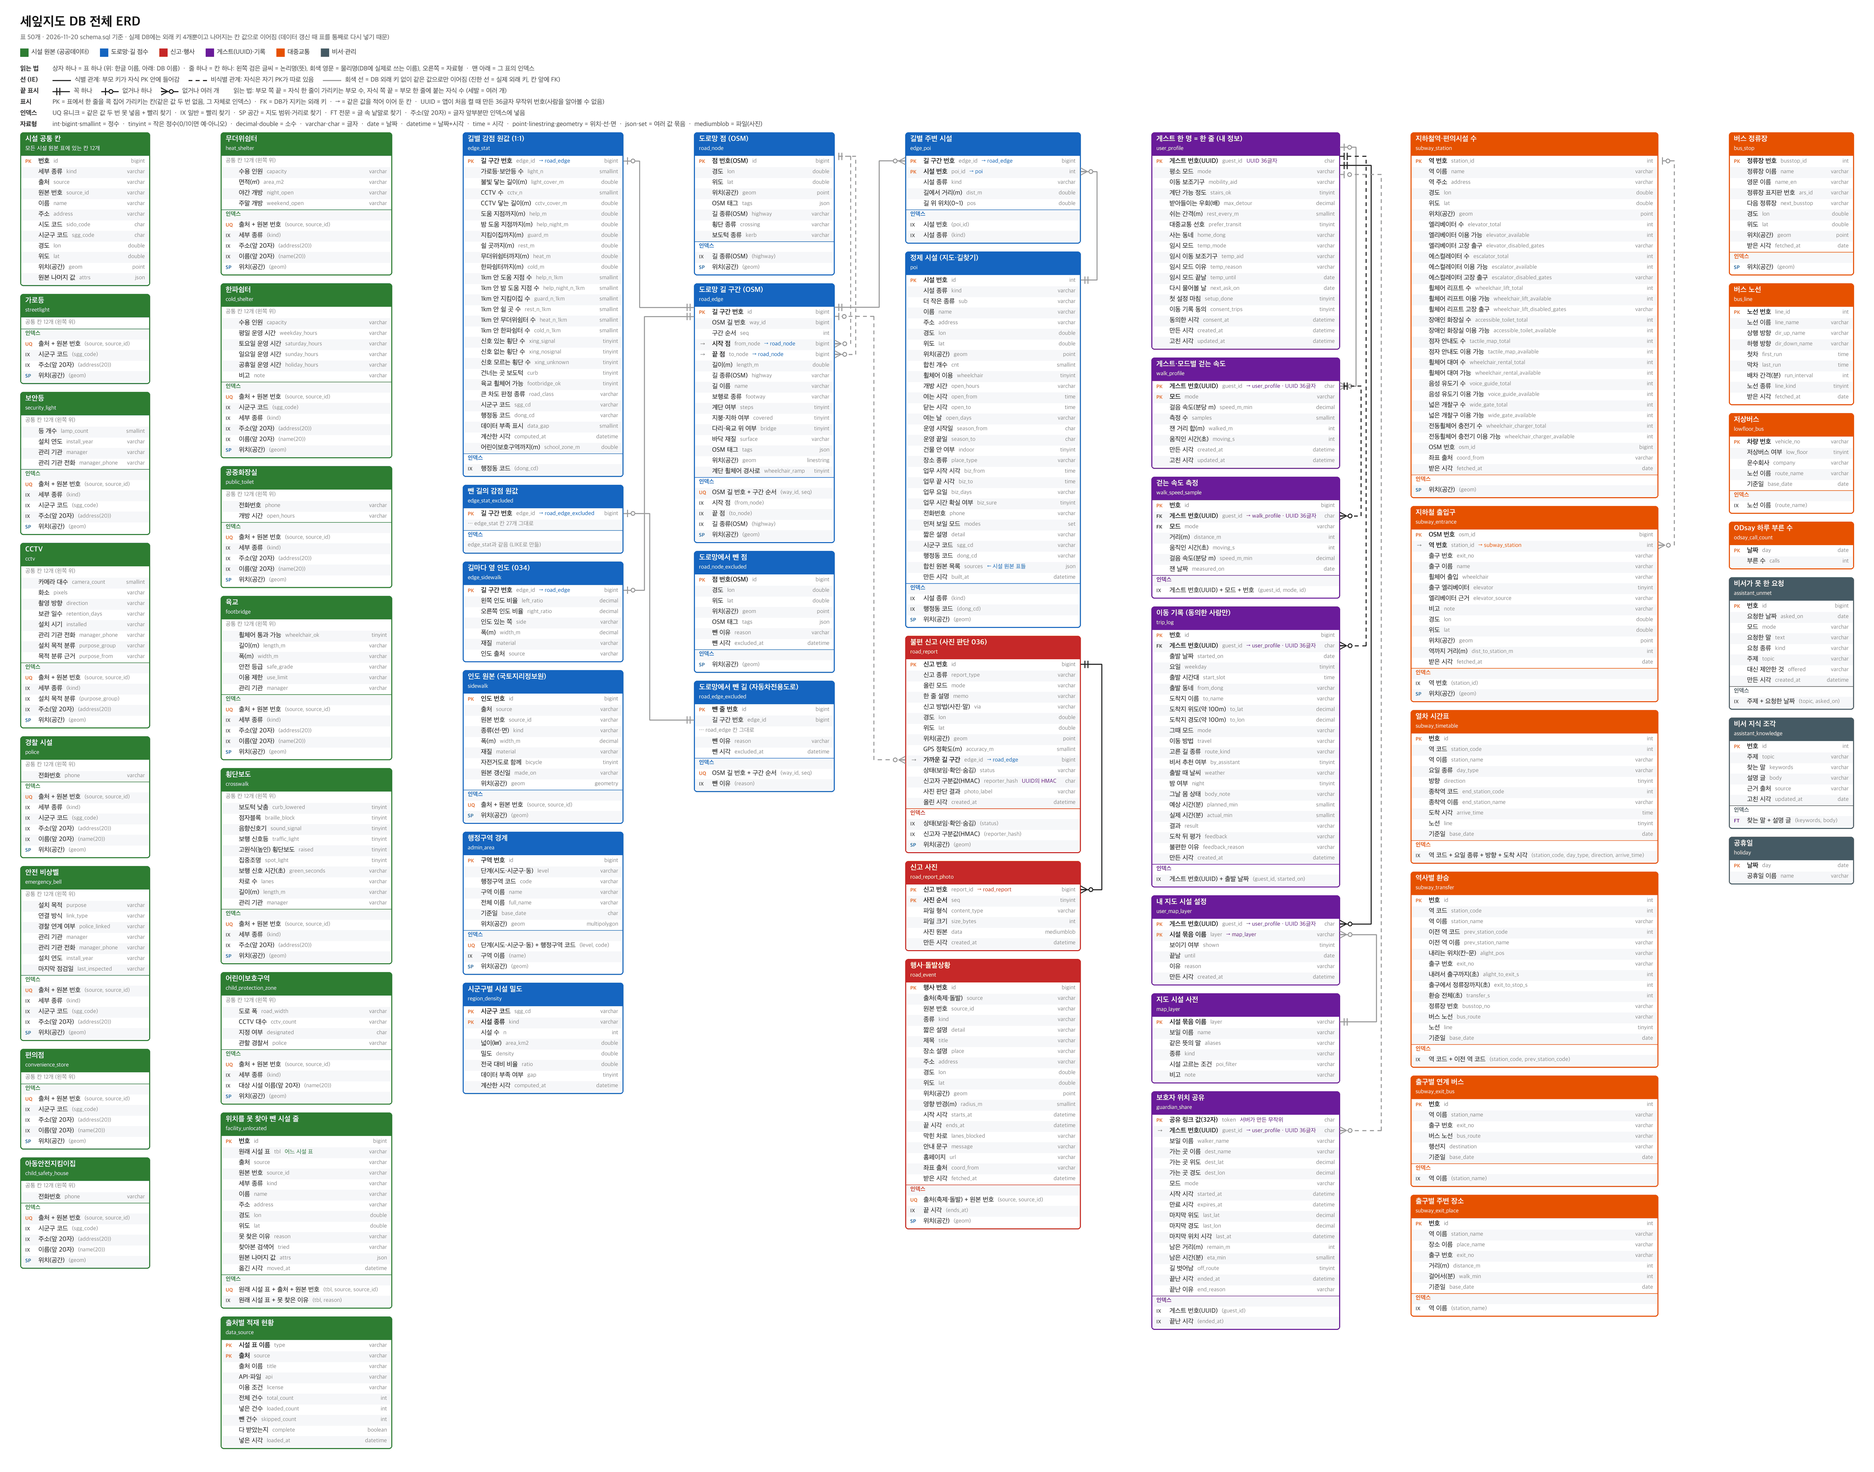
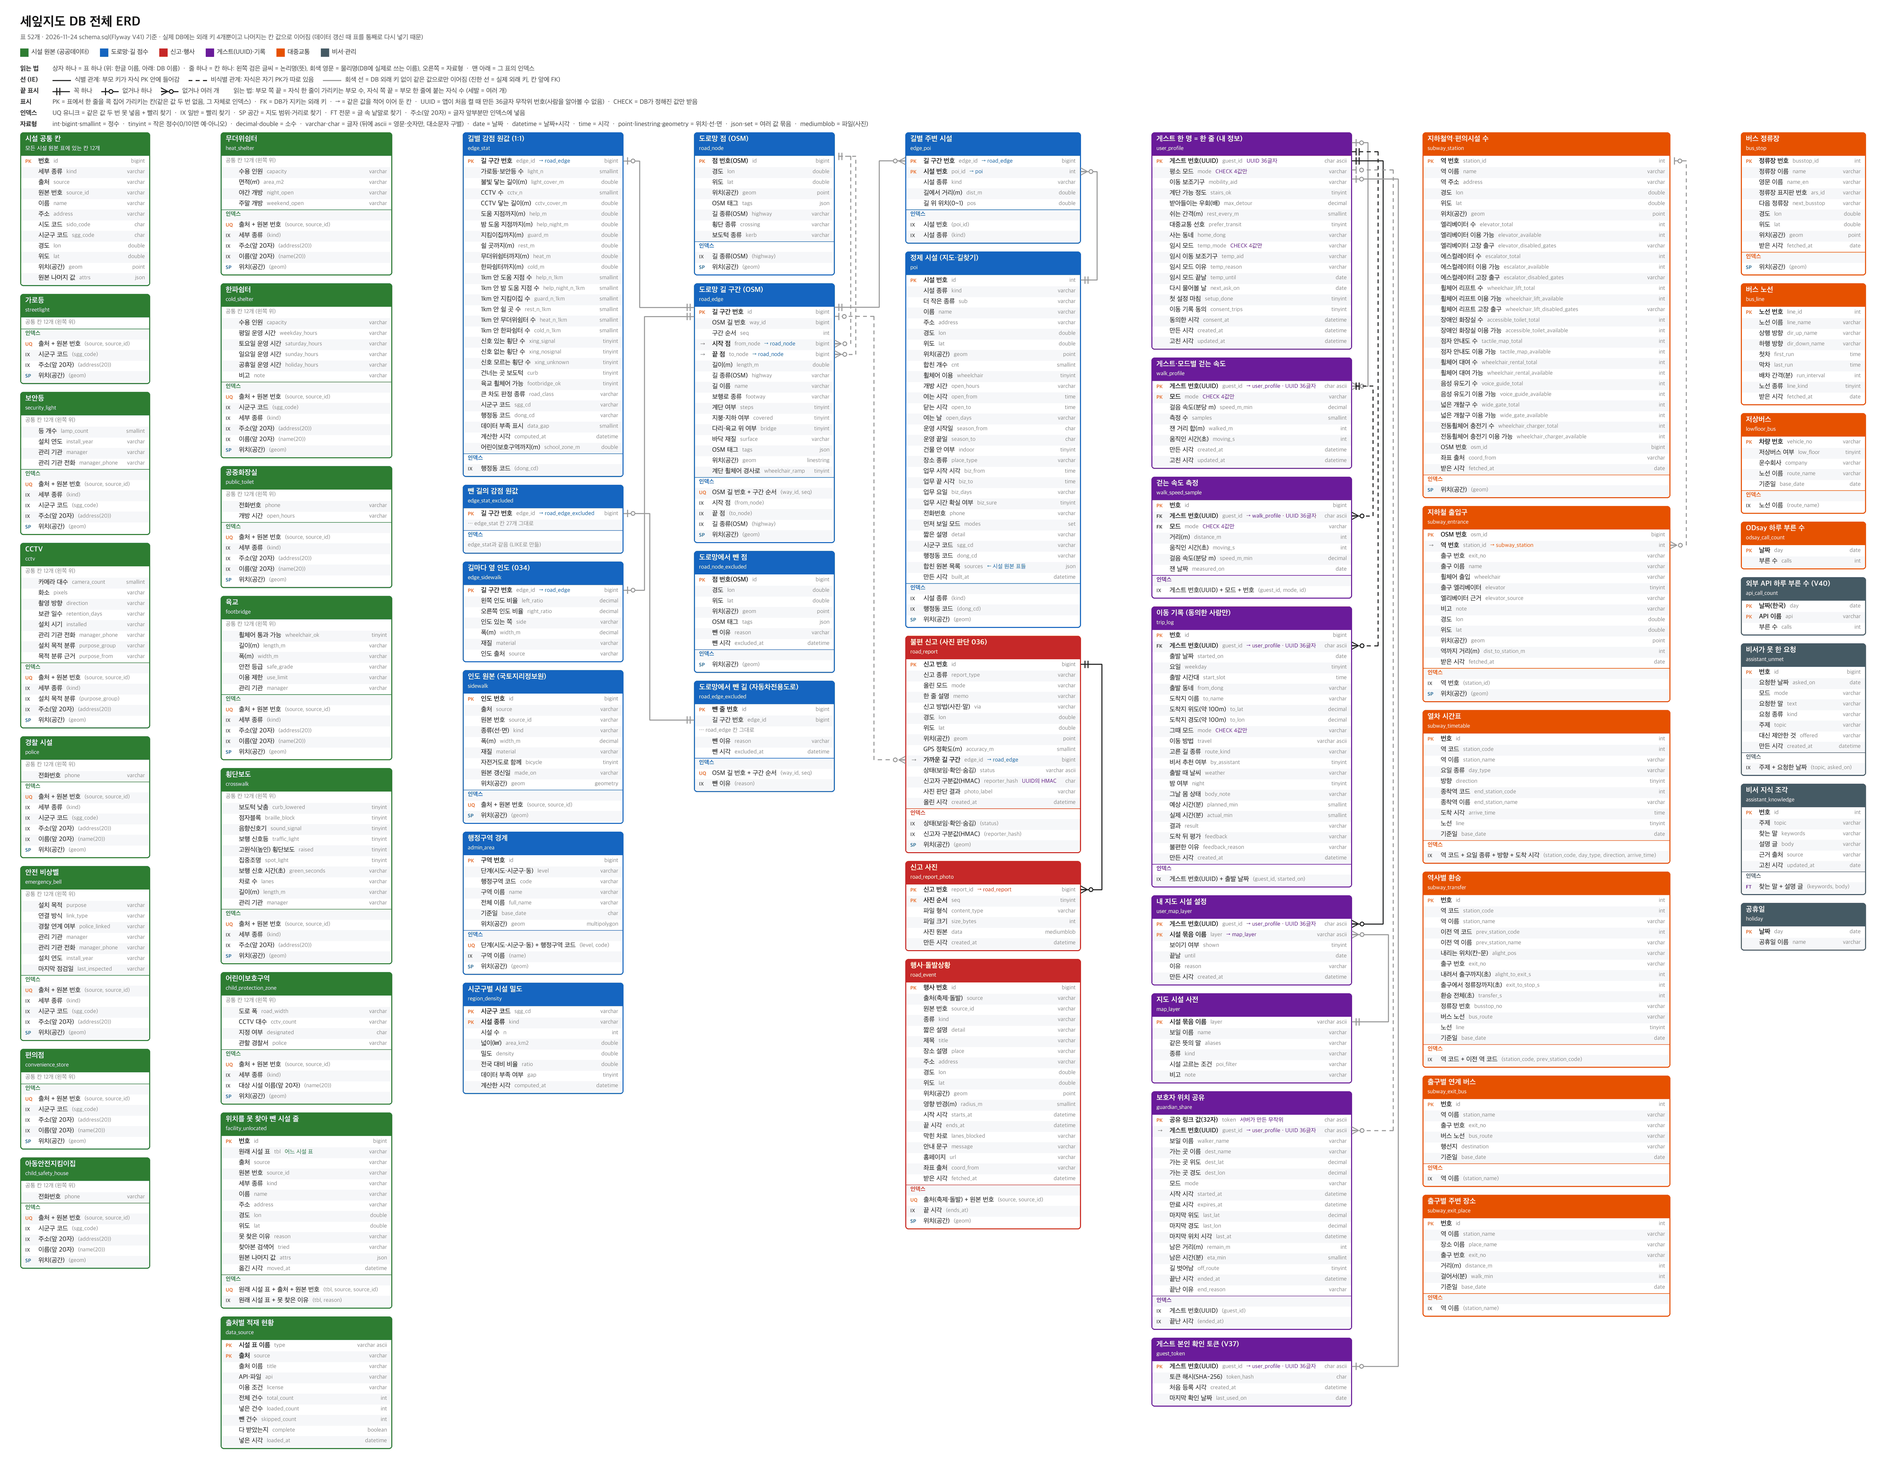
docs: 전체 ERD를 11-24 DB(Flyway V41)에 맞추기
- 새 표 guest_token(V37)·api_call_count(V40) 추가, 표 52개
- 영문·숫자만 담는 칸은 자료형 뒤에 ascii(V38·V41), mode 칸은 CHECK 4값만(V39) 표시
- 범례에 CHECK·ascii 뜻, README 숫자 맞춤

diff --git a/docs/erd/full_erd.py b/docs/erd/full_erd.py
@@ -15,14 +15,14 @@ OUT = sys.argv[2] if len(sys.argv) > 2 else 'docs/erd/safe_route_full_erd.png'
 
 
 def read_schema(path):
-    """표마다 칸 [이름, 자료형, 설명, NULL 허용], PK, 인덱스 [(종류, 이름, 칸들)]"""
+    """표마다 칸 [이름, 자료형, 설명, NULL 허용], PK, 인덱스 [(종류, 이름, 칸들)], CHECK {칸: 값 수}"""
     src = open(path, encoding='utf-8').read()
     src = re.sub(r'/\*.*?\*/', '', src, flags=re.S)
     tables = {}
     for m in re.finditer(r'CREATE TABLE (?:IF NOT EXISTS )?`?(\w+)`?\s*\((.*?)\)\s*(?:ENGINE|COMMENT|DEFAULT|;)', src, re.S | re.I):
         name, body = m.group(1), m.group(2)
         lines = [re.sub(r'\s*--.*$', '', l.strip()) for l in body.split('\n')]
-        cols, pk, idx = [], [], []
+        cols, pk, idx, chk = [], [], [], {}
         for l in lines:
             if not l: continue
             mm = re.match(r'PRIMARY KEY\s*\(([^)]*)\)', l, re.I)
@@ -35,14 +35,18 @@ def read_schema(path):
                 idx.append(({'UNIQUE': 'UQ', 'SPATIAL': 'SP', 'FULLTEXT': 'FT'}.get(k, 'IX'), mm.group(2),
                             [c.strip(' `') for c in re.split(r',(?![^(]*\))', l[mm.end():j - 1])]))
                 continue
+            mm = re.search(r'CHECK\s*\(\s*`?(\w+)`?\s+IN\s*\(([^)]*)\)', l, re.I)
+            if mm: chk[mm.group(1)] = len(mm.group(2).split(',')); continue
             if re.match(r'(CONSTRAINT|FOREIGN|CHECK)\b', l, re.I): continue
             mm = re.match(r'`?(\w+)`?\s+([A-Za-z]+(?:\([^)]*\))?)', l)
             if not mm or mm.group(1).upper() in ('WHEN', 'REFERENCES', 'END', 'CASE'): continue
             c, t = mm.group(1), mm.group(2)
             cm = re.search(r"COMMENT\s+'((?:[^']|'')*)'", l)
             if 'PRIMARY KEY' in l.upper(): pk.append(c)
+            # 영문·숫자만 담는 칸 (V38·V41): 대소문자를 구별하고 한 글자 1바이트
+            if re.search(r'CHARACTER SET ascii', l, re.I): t += ' ascii'
             cols.append([c, t.lower(), (cm.group(1) if cm else ''), 'NOT NULL' not in l.upper()])
-        tables[name] = {'cols': cols, 'pk': pk, 'idx': idx}
+        tables[name] = {'cols': cols, 'pk': pk, 'idx': idx, 'chk': chk}
     m = re.search(r'CREATE TABLE (?:IF NOT EXISTS )?(\w+) LIKE (\w+)', src)
     for m in re.finditer(r'CREATE TABLE (?:IF NOT EXISTS )?`?(\w+)`? LIKE `?(\w+)`?', src):
         tables[m.group(1)] = dict(tables[m.group(2)], like=m.group(2))
@@ -124,6 +128,7 @@ D = {
  'loaded_count':'넣은 건수','skipped_count':'뺀 건수','complete':'다 받았는지','loaded_at':'넣은 시각',
  'keywords':'찾는 말','body':'설명 글','material':'재질','bicycle':'자전거도로 함께','made_on':'원본 갱신일',
  'left_ratio':'왼쪽 인도 비율','right_ratio':'오른쪽 인도 비율','side':'인도 있는 쪽','calls':'부른 수',
+ 'token_hash':'토큰 해시(SHA-256)','last_used_on':'마지막 확인 날짜',
 }
 O = {
  ('road_node','id'):'점 번호(OSM)', ('road_node_excluded','id'):'점 번호(OSM)', ('road_edge','id'):'길 구간 번호',
@@ -144,6 +149,7 @@ O = {
  ('road_edge_excluded','reason'):'뺀 이유', ('road_node_excluded','reason'):'뺀 이유', ('user_map_layer','reason'):'이유',
  ('edge_stat','curb'):'건너는 곳 보도턱', ('subway_entrance','wheelchair'):'휠체어 출입',
  ('region_density','kind'):'시설 종류', ('edge_stat','edge_id'):'길 구간 번호', ('road_report','edge_id'):'가까운 길 구간',
+ ('guest_token','created_at'):'처음 등록 시각', ('api_call_count','api'):'API 이름', ('api_call_count','day'):'날짜(한국)',
 }
 def logical(t, c): return O.get((t, c)) or D.get(c, c)
 
@@ -176,6 +182,7 @@ DESC = {
  'subway_timetable':'열차 시간표','subway_transfer':'역사별 환승','subway_exit_bus':'출구별 연계 버스',
  'subway_exit_place':'출구별 주변 장소','bus_stop':'버스 정류장','bus_line':'버스 노선','lowfloor_bus':'저상버스',
  'odsay_call_count':'ODsay 하루 부른 수','assistant_unmet':'비서가 못 한 요청','assistant_knowledge':'비서 지식 조각',
+ 'guest_token':'게스트 본인 확인 토큰 (V37)','api_call_count':'외부 API 하루 부른 수 (V40)',
 }
 COMMON = ['id','kind','source','source_id','name','address','sido_code','sgg_code','lon','lat','geom','attrs']
 FAC = ['streetlight','security_light','cctv','police','emergency_bell','convenience_store','child_safety_house',
@@ -186,18 +193,18 @@ COLS = [
  ['edge_stat','edge_stat_excluded','edge_sidewalk','sidewalk','admin_area','region_density'],
  ['road_node','road_edge','road_node_excluded','road_edge_excluded'],
  ['edge_poi','poi','road_report','road_report_photo','road_event'],
- ['user_profile','walk_profile','walk_speed_sample','trip_log','user_map_layer','map_layer','guardian_share'],
+ ['user_profile','walk_profile','walk_speed_sample','trip_log','user_map_layer','map_layer','guardian_share','guest_token'],
  ['subway_station','subway_entrance','subway_timetable','subway_transfer','subway_exit_bus','subway_exit_place'],
- ['bus_stop','bus_line','lowfloor_bus','odsay_call_count','assistant_unmet','assistant_knowledge','holiday'],
+ ['bus_stop','bus_line','lowfloor_bus','odsay_call_count','api_call_count','assistant_unmet','assistant_knowledge','holiday'],
 ]
 GROUP = {t: 'fac' for t in FAC + ['__common__', 'facility_unlocated', 'data_source']}
 GROUP.update({t: 'road' for t in ['road_node','road_edge','road_node_excluded','road_edge_excluded','edge_stat','edge_stat_excluded',
               'edge_sidewalk','sidewalk','admin_area','region_density','edge_poi','poi']})
 GROUP.update({t: 'rep' for t in ['road_report','road_report_photo','road_event']})
-GROUP.update({t: 'user' for t in ['user_profile','walk_profile','walk_speed_sample','trip_log','user_map_layer','map_layer','guardian_share']})
+GROUP.update({t: 'user' for t in ['user_profile','walk_profile','walk_speed_sample','trip_log','user_map_layer','map_layer','guardian_share','guest_token']})
 GROUP.update({t: 'tr' for t in ['subway_station','subway_entrance','subway_timetable','subway_transfer','subway_exit_bus',
               'subway_exit_place','bus_stop','bus_line','lowfloor_bus','odsay_call_count']})
-GROUP.update({t: 'etc' for t in ['assistant_unmet','assistant_knowledge','holiday']})
+GROUP.update({t: 'etc' for t in ['assistant_unmet','assistant_knowledge','holiday','api_call_count']})
 
 # (자식 표, 자식 칸들, 부모 표, 부모 칸, 실제 외래 키?). 식별/비식별·끝 표시는 schema.sql의 PK·NULL로 계산
 REL = [
@@ -210,6 +217,7 @@ REL = [
  ('walk_speed_sample',('guest_id','mode'),'walk_profile','guest_id',1),
  ('trip_log',('guest_id',),'user_profile','guest_id',1), ('user_map_layer',('guest_id',),'user_profile','guest_id',1),
  ('user_map_layer',('layer',),'map_layer','layer',0), ('guardian_share',('guest_id',),'user_profile','guest_id',0),
+ ('guest_token',('guest_id',),'user_profile','guest_id',0),
  ('subway_entrance',('station_id',),'subway_station','station_id',0),
 ]
 def nullable(t, c): return any(x[0] == c and x[3] for x in T[t]['cols'])
@@ -222,13 +230,13 @@ def rel_kind(child, cols):
     return ident, child_end, parent_end
 # 칸은 NOT NULL이지만 부모 줄이 없을 수 있는 것: walk_profile(025)이 user_profile(027)보다 먼저 생겨 외래 키가 없고,
 # 첫 설정 없이 길안내만 쓴 게스트는 user_profile 줄이 없다
-PARENT_MAYBE_MISSING = {'walk_profile'}
+PARENT_MAYBE_MISSING = {'walk_profile', 'guest_token'}
 NOTE = {('poi','sources'): '← 시설 원본 표들', ('facility_unlocated','tbl'): '어느 시설 표',
         ('road_report','reporter_hash'): 'UUID의 HMAC', ('guardian_share','token'): '서버가 만든 무작위'}
-UUID = {(t, 'guest_id') for t in ['user_profile','walk_profile','walk_speed_sample','trip_log','user_map_layer','guardian_share']}
+UUID = {(t, 'guest_id') for t in ['user_profile','walk_profile','walk_speed_sample','trip_log','user_map_layer','guardian_share','guest_token']}
 FK_SRC = {(a, c): (b, r, i == 0) for a, cs, b, _, r in REL for i, c in enumerate(cs)}
 
-def short(t): return t.split('(')[0].replace(' unsigned', '')
+def short(t): return t.split('(')[0].replace(' unsigned', '') + (' ascii' if t.endswith(' ascii') else '')
 IDX_NAME = {'UQ': '유니크', 'IX': '인덱스', 'SP': '공간', 'FT': '전문'}
 def idx_rows(t):
     """표 아래 인덱스 칸: (보일 글, 인덱스 이름, 'idx:종류', 칸 목록). PK는 따로 안 적음(PK 자체가 인덱스)"""
@@ -267,6 +275,7 @@ def rows_of(t):
             dst, real, first = FK_SRC[(t, c)]; k = (k + '+' if k else '') + ('fk' if real else 'lk')
             if first: note = '→ ' + dst
         if (t, c) in UUID: note = (note + ' · ' if note else '') + 'UUID 36글자'
+        if c in T[t].get('chk', {}): note = (note + ' · ' if note else '') + 'CHECK %d값만' % T[t]['chk'][c]
         out.append((c, short(ty), k, note))
     return out + idx_rows(t)
 
@@ -304,7 +313,7 @@ H = int(H + 30 * SC)
 img = Image.new('RGB', (W, H), '#FFFFFF'); d = ImageDraw.Draw(img)
 
 d.text((40 * SC, 28 * SC), '세잎지도 DB 전체 ERD', font=f_title, fill='#111')
-d.text((40 * SC, 66 * SC), '표 50개 · 2026-11-20 schema.sql 기준 · 실제 DB에는 외래 키 4개뿐이고 나머지는 칸 값으로 이어짐 (데이터 갱신 때 표를 통째로 다시 넣기 때문)',
+d.text((40 * SC, 66 * SC), '표 %d개 · 2026-11-24 schema.sql(Flyway V41) 기준 · ' % (len(T)) + '실제 DB에는 외래 키 4개뿐이고 나머지는 칸 값으로 이어짐 (데이터 갱신 때 표를 통째로 다시 넣기 때문)',
        font=f_leg, fill='#555')
 
 
@@ -348,9 +357,9 @@ HOW = [
                  ('solid', '#999'), ('t', '회색 선 = DB 외래 키 없이 같은 값으로만 이어짐 (진한 선 = 실제 외래 키, 칸 앞에 FK)')]),
     ('끝 표시', [('end', 'one'), ('t', '꼭 하나'), ('end', 'one_opt'), ('t', '없거나 하나'), ('end', 'many_opt'), ('t', '없거나 여러 개'),
                 ('t', '   읽는 법: 부모 쪽 끝 = 자식 한 줄이 가리키는 부모 수, 자식 쪽 끝 = 부모 한 줄에 붙는 자식 수 (세발 = 여러 개)')]),
-    ('표시', [('t', 'PK = 표에서 한 줄을 콕 집어 가리키는 칸(같은 값 두 번 없음, 그 자체로 인덱스)  ·  FK = DB가 지키는 외래 키  ·  → = 같은 값을 적어 이어 둔 칸  ·  UUID = 앱이 처음 켤 때 만든 36글자 무작위 번호(사람을 알아볼 수 없음)')]),
+    ('표시', [('t', 'PK = 표에서 한 줄을 콕 집어 가리키는 칸(같은 값 두 번 없음, 그 자체로 인덱스)  ·  FK = DB가 지키는 외래 키  ·  → = 같은 값을 적어 이어 둔 칸  ·  UUID = 앱이 처음 켤 때 만든 36글자 무작위 번호(사람을 알아볼 수 없음)  ·  CHECK = DB가 정해진 값만 받음')]),
     ('인덱스', [('t', 'UQ 유니크 = 같은 값 두 번 못 넣음 + 빨리 찾기  ·  IX 일반 = 빨리 찾기  ·  SP 공간 = 지도 범위·거리로 찾기  ·  FT 전문 = 글 속 낱말로 찾기  ·  주소(앞 20자) = 글자 앞부분만 인덱스에 넣음')]),
-    ('자료형', [('t', 'int·bigint·smallint = 정수  ·  tinyint = 작은 정수(0/1이면 예·아니오)  ·  decimal·double = 소수  ·  varchar·char = 글자  ·  date = 날짜  ·  datetime = 날짜+시각  ·  time = 시각  ·  point·linestring·geometry = 위치·선·면  ·  json·set = 여러 값 묶음  ·  mediumblob = 파일(사진)')]),
+    ('자료형', [('t', 'int·bigint·smallint = 정수  ·  tinyint = 작은 정수(0/1이면 예·아니오)  ·  decimal·double = 소수  ·  varchar·char = 글자 (뒤에 ascii = 영문·숫자만, 대소문자 구별)  ·  date = 날짜  ·  datetime = 날짜+시각  ·  time = 시각  ·  point·linestring·geometry = 위치·선·면  ·  json·set = 여러 값 묶음  ·  mediumblob = 파일(사진)')]),
 ]
 for i, (k, parts) in enumerate(HOW):
     yy = (128 + i * 22) * SC; x = 104 * SC

diff --git a/docs/erd/README.md b/docs/erd/README.md
@@ -1,6 +1,6 @@
 # ERD
 
-학교 DB의 ERD 파일이다. 전체 그림(`safe_route_full_erd.png`)은 2026-11-20 `schema.sql`의 표 50개로 그렸다.
+학교 DB의 ERD 파일이다. 전체 그림(`safe_route_full_erd.png`)은 2026-11-24 `schema.sql`(Flyway V41까지)의 표 52개로 그렸다.
 아래 `.sql`·`.dbml` 파일은 2026-11-03에 학교 DB의 `information_schema`에서 만든 표 32개 판이다(그 뒤 생긴 신고·게스트·인도 등 표는 없음).
 표 정의의 원본은 `src/main/resources/db/schema.sql`이고, 이 폴더는 그림용이다.
 
@@ -9,7 +9,7 @@
 
 | 파일 | 무엇 | 언제 쓰나 |
 | --- | --- | --- |
-| `safe_route_full_erd.png` | **표 50개 전체** (2026-11-20, schema.sql 기준). 표·칸마다 **논리명(한글 뜻)과 물리명(DB 이름)**, 자료형, 표 아래 **인덱스**(UQ·IX·SP·FT 108개). 관계선은 **IE 표기**: 실선 = 식별, 점선 = 비식별, 끝은 세발 표기. 진한 선 = 실제 외래 키 4개, 회색 = 칸 값 연결. `guest_id`(UUID 36글자) 표시. 맨 위에 읽는 법·자료형 뜻 | README·발표 |
+| `safe_route_full_erd.png` | **표 52개 전체** (2026-11-24, schema.sql·Flyway V41 기준. 11-24에 게스트 본인 확인 토큰 `guest_token`, 외부 API 하루 호출 수 `api_call_count` 추가). 표·칸마다 **논리명(한글 뜻)과 물리명(DB 이름)**, 자료형, 표 아래 **인덱스**(UQ·IX·SP·FT 108개). 관계선은 **IE 표기**: 실선 = 식별, 점선 = 비식별, 끝은 세발 표기. 진한 선 = 실제 외래 키 4개, 회색 = 칸 값 연결. `guest_id`(UUID 36글자) 표시. 영문·숫자만 담는 칸은 자료형 뒤에 `ascii`(대소문자 구별, V38·V41), 정해진 값만 받는 칸은 `CHECK 4값만`(V39). 맨 위에 읽는 법·자료형 뜻 | README·발표 |
 | `full_erd.py` | 위 그림을 schema.sql에서 다시 그림 (`.venv/bin/python docs/erd/full_erd.py`). 새 표는 COLS·GROUP·DESC(표 논리명)·REL에, 새 칸의 논리명은 D(표마다 다르면 O)에 넣기 | 표가 바뀌었을 때 |
 | `route_core_erd.png` | 경로 계산에 쓰는 표 8개의 관계 그림. 선마다 ①~⑦ 번호와 왜 연결되는지 짧게 적음 | 발표·문서 (요구사항 8.2에 같은 그림과 ①~⑦ 설명 표) |
 | `route_core_erd.mmd` | 위 그림의 mermaid 원본 | 그림을 고칠 때 |

diff --git a/README.md b/README.md
@@ -158,7 +158,7 @@ v6는 차·오토바이가 크게 덮은 '막는 물건' 학습 사진을 빼고
 
 원본 시설은 종류마다 표 하나씩 있습니다. 길찾기는 이를 정제한 `poi`·`edge_stat`(길별 점수)·`edge_poi`(길별 주변 시설)를 씁니다. 표 정의의 원본은 `db/schema.sql`이고, 그림 파일은 [docs/erd](docs/erd)에 있습니다.
 
-전체 ERD (표 50개, 2026-11-20). 표와 칸마다 논리명(한글 뜻)과 물리명(DB에 쓰는 이름)을 적고, 표 아래에 적용한 인덱스(유니크·일반·공간·전문 108개)를 적었습니다. 관계선은 IE 표기입니다: 실선 = 식별 관계(부모 키가 자식 PK에 들어감), 점선 = 비식별 관계, 양 끝은 세발 표기(꼭 하나 · 없거나 하나 · 없거나 여러 개). 진한 선은 DB의 실제 외래 키(4개), 회색 선은 같은 값으로만 이어진 관계입니다. 게스트 표들은 앱이 처음 실행 때 만든 무작위 번호(UUID, 36글자) `guest_id`로 이어지고, 신고에는 이 번호의 HMAC만 남깁니다.
+전체 ERD (표 52개, 2026-11-24 Flyway V41 기준). 표와 칸마다 논리명(한글 뜻)과 물리명(DB에 쓰는 이름)을 적고, 표 아래에 적용한 인덱스(유니크·일반·공간·전문 108개)를 적었습니다. 관계선은 IE 표기입니다: 실선 = 식별 관계(부모 키가 자식 PK에 들어감), 점선 = 비식별 관계, 양 끝은 세발 표기(꼭 하나 · 없거나 하나 · 없거나 여러 개). 진한 선은 DB의 실제 외래 키(4개), 회색 선은 같은 값으로만 이어진 관계입니다. 게스트 표들은 앱이 처음 실행 때 만든 무작위 번호(UUID, 36글자) `guest_id`로 이어지고, 신고에는 이 번호의 HMAC만 남깁니다. 영문·숫자만 담는 칸(게스트 번호·토큰·코드)은 `ascii`로 대소문자를 구별하고, 모드 칸은 `CHECK`로 네 값만 받습니다.
 
 [![세잎지도 DB 전체 ERD](docs/erd/safe_route_full_erd.png)](docs/erd/safe_route_full_erd.png)
 
